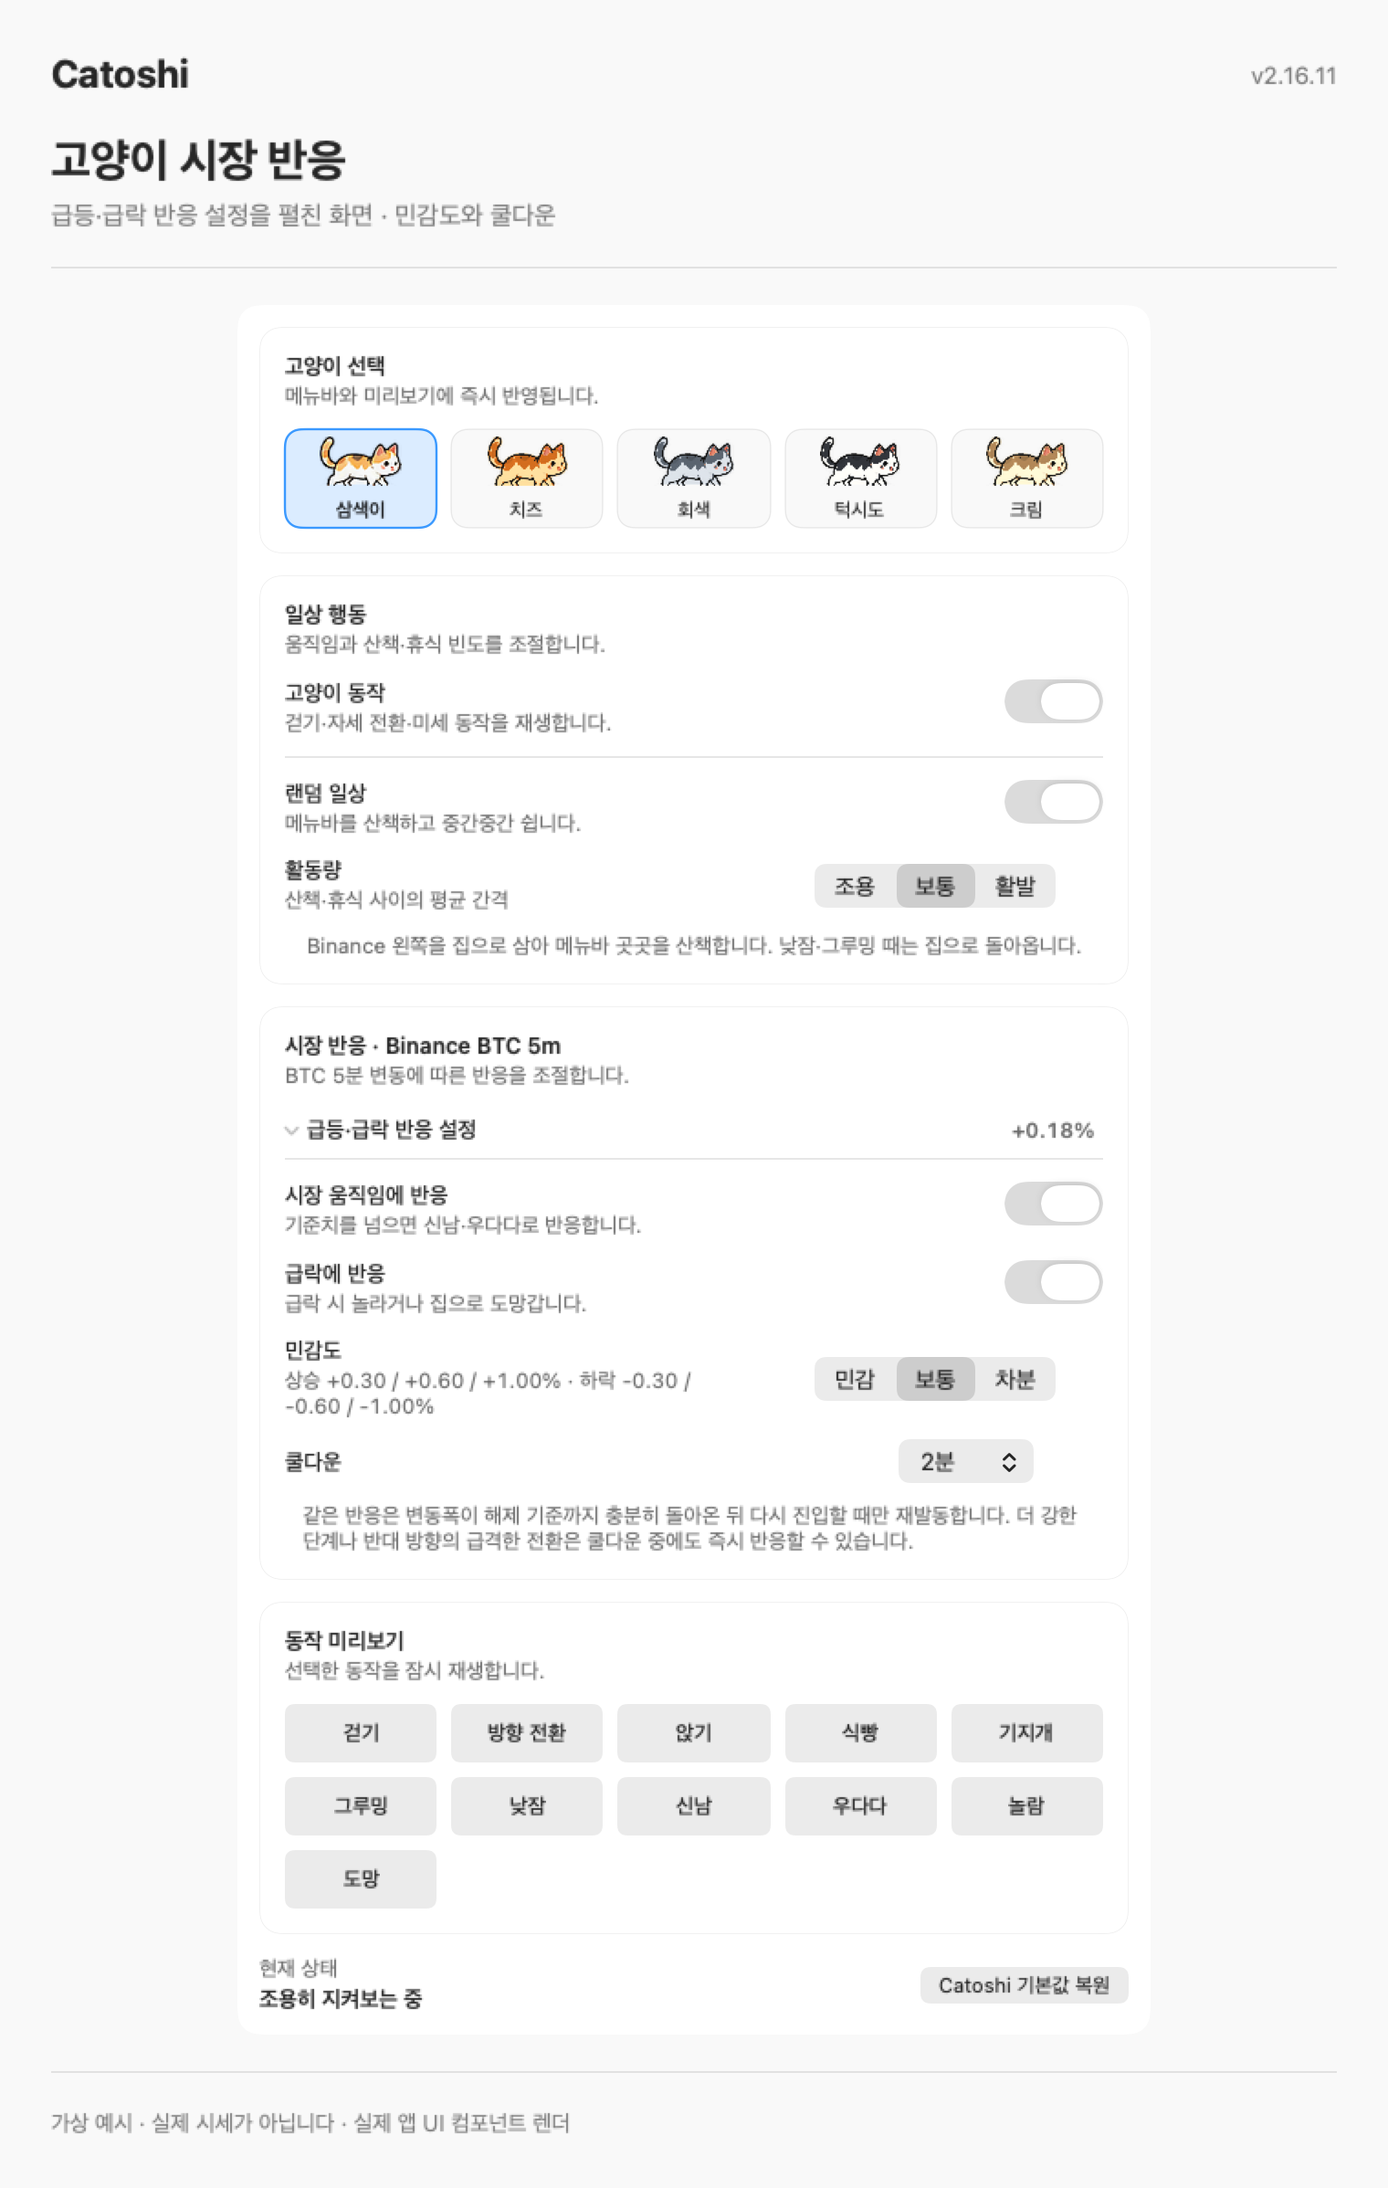
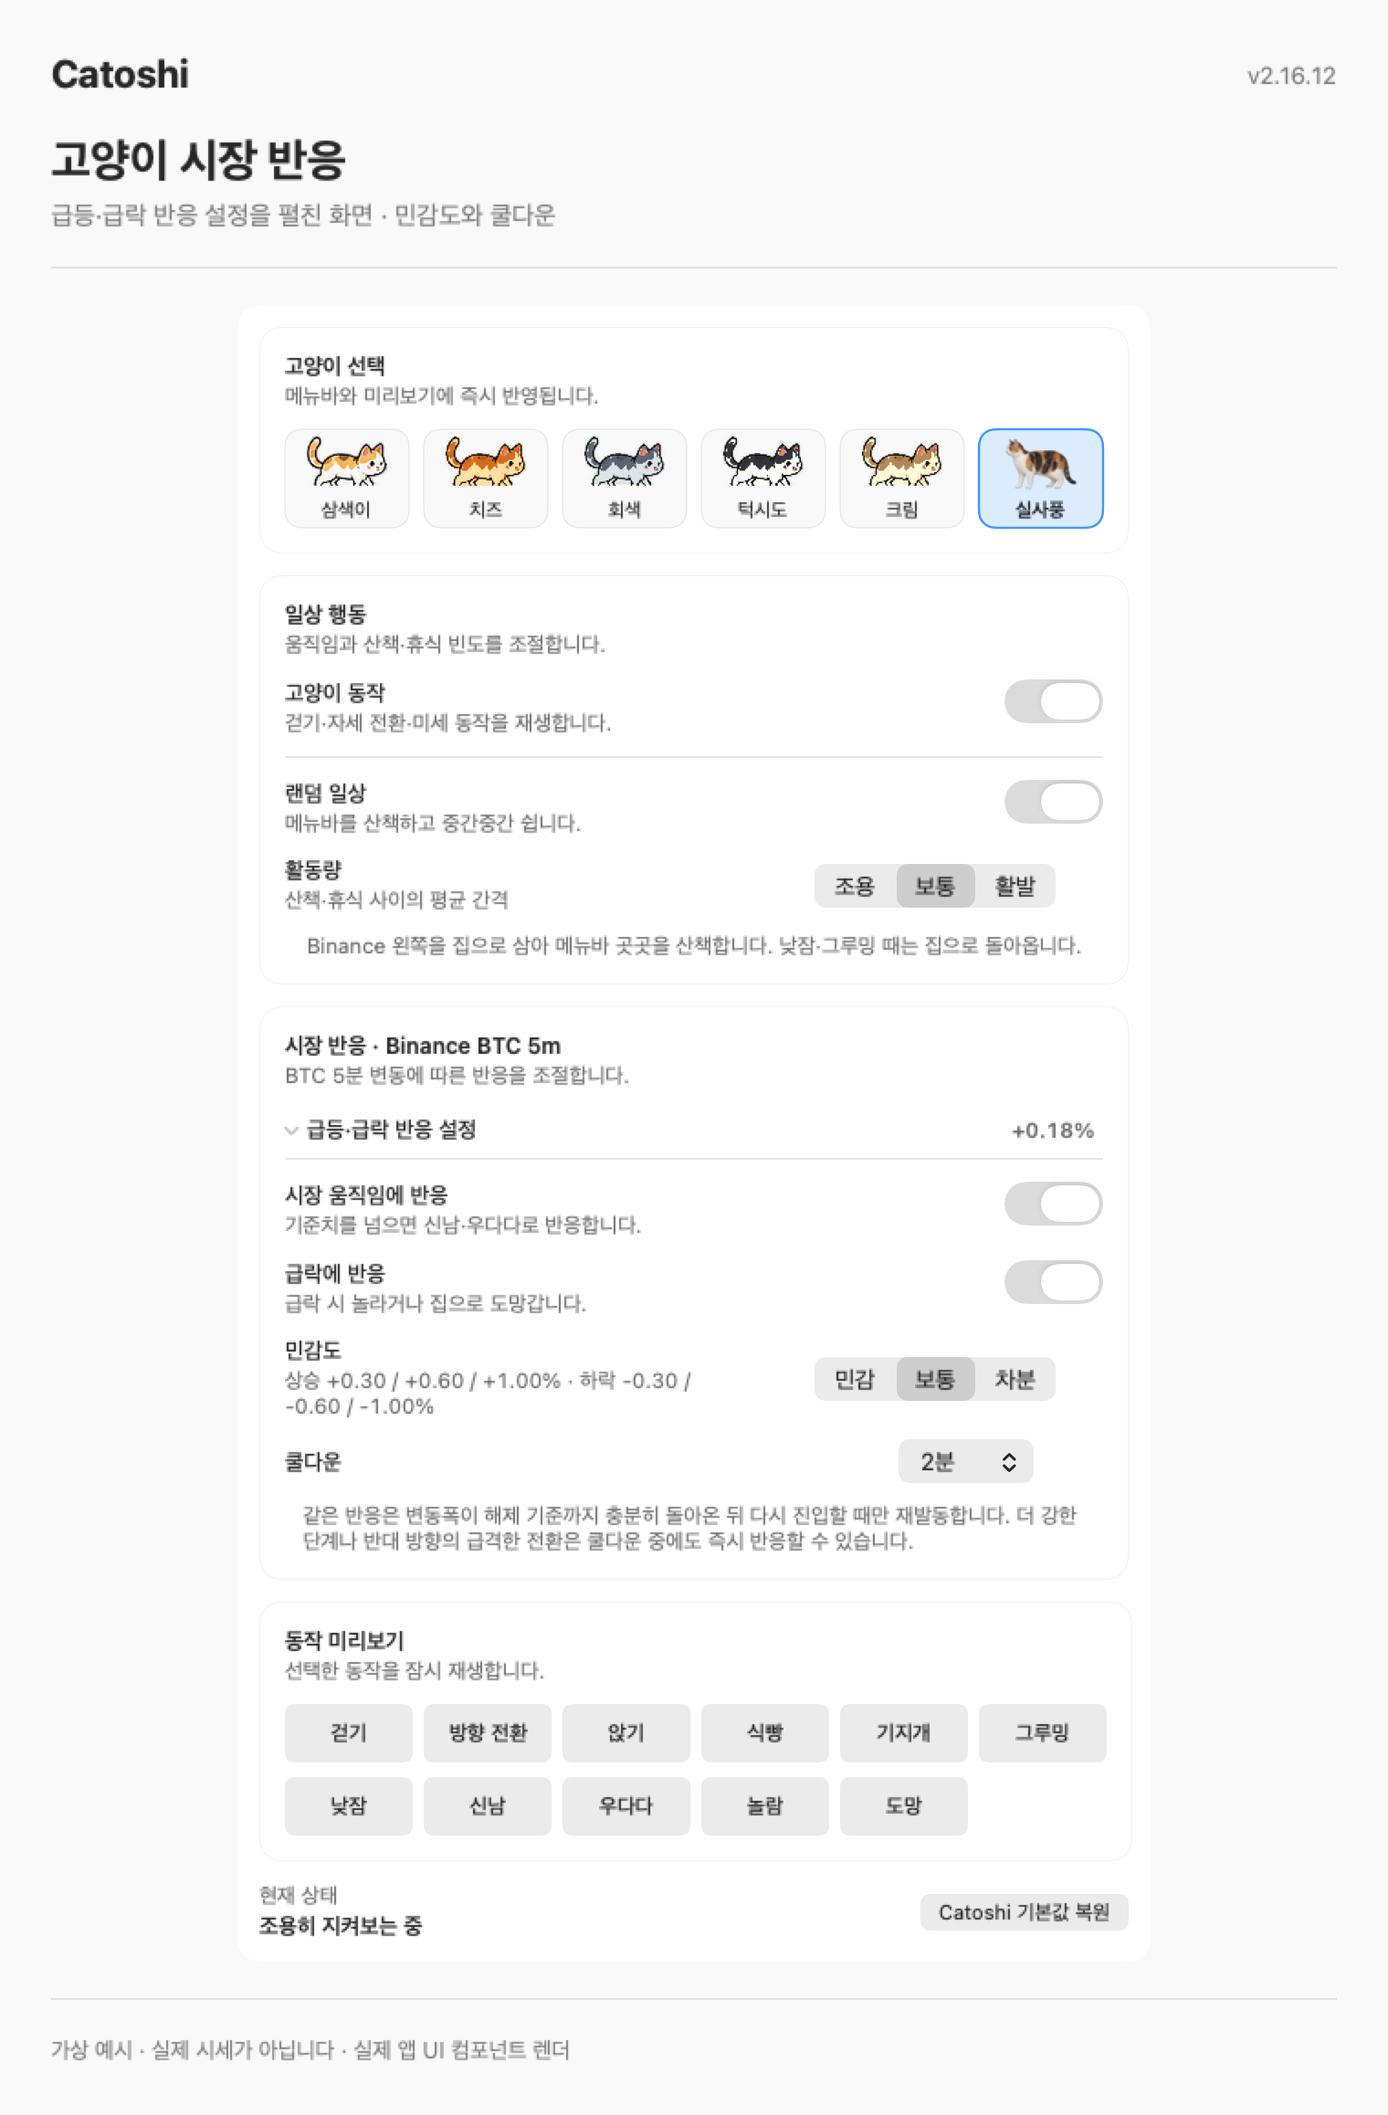
feat: add realistic calico cat option

diff --git a/scripts/build_realistic_atlas.swift b/scripts/build_realistic_atlas.swift
@@ -1,0 +1,182 @@
+import AppKit
+import CoreGraphics
+import Foundation
+
+// Rebuild the 2x menu-bar atlas from the transparent photographic pose sheets.
+// Run from the repository root: swift scripts/build_realistic_atlas.swift
+private struct Sheet {
+    let image: CGImage
+    let bitmap: NSBitmapImageRep
+    let rows: [Int]
+    let columns: [[Int]]
+
+    init(path: String, rows: [Int], columns: [[Int]]) throws {
+        let data = try Data(contentsOf: URL(fileURLWithPath: path))
+        guard let bitmap = NSBitmapImageRep(data: data), let image = bitmap.cgImage,
+              bitmap.pixelsWide == columns[0].last, bitmap.pixelsHigh == rows.last else {
+            throw NSError(domain: "CatoshiAtlas", code: 1, userInfo: [NSLocalizedDescriptionKey: "Invalid source sheet: \(path)"])
+        }
+        self.bitmap = bitmap
+        self.image = image
+        self.rows = rows
+        self.columns = columns
+    }
+
+    func pose(row: Int, column: Int) -> CGImage {
+        let x0 = columns[row][column]
+        let x1 = columns[row][column + 1]
+        let y0 = rows[row]
+        let y1 = rows[row + 1]
+        var minX = x1, minY = y1, maxX = x0, maxY = y0
+        for y in y0..<y1 {
+            for x in x0..<x1 where (bitmap.colorAt(x: x, y: y)?.alphaComponent ?? 0) > 0.5 {
+                minX = min(minX, x)
+                minY = min(minY, y)
+                maxX = max(maxX, x)
+                maxY = max(maxY, y)
+            }
+        }
+        precondition(maxX >= minX && maxY >= minY, "Empty pose \(row), \(column)")
+        let rect = CGRect(
+            x: max(x0, minX - 2),
+            y: max(y0, minY - 2),
+            width: min(x1, maxX + 3) - max(x0, minX - 2),
+            height: min(y1, maxY + 3) - max(y0, minY - 2)
+        )
+        guard let crop = image.cropping(to: rect) else { fatalError("Cannot crop pose \(row), \(column)") }
+        return crop
+    }
+}
+
+private struct Frame {
+    let name: String
+    let x: Int
+    let width: Int
+    let sheet: Int
+    let row: Int
+    let column: Int
+}
+
+let root = URL(fileURLWithPath: FileManager.default.currentDirectoryPath)
+let sources = root.appendingPathComponent("artwork/realistic")
+private let sheets = try [
+    Sheet(
+        path: sources.appendingPathComponent("calico-poses.png").path,
+        rows: [0, 364, 724, 1086],
+        columns: [[0, 387, 724, 1067, 1448], [0, 362, 724, 1086, 1448], [0, 367, 724, 1086, 1448]]
+    ),
+    Sheet(
+        path: sources.appendingPathComponent("calico-motion.png").path,
+        rows: [0, 362, 724, 1086],
+        columns: [[0, 377, 724, 1086, 1448], [0, 394, 757, 1086, 1448], [0, 394, 736, 1086, 1448]]
+    ),
+    Sheet(
+        path: sources.appendingPathComponent("calico-sitting.png").path,
+        rows: [0, 724],
+        columns: [[0, 543, 1086, 1629, 2172]]
+    )
+]
+
+// Names and pixel slots match CatoshiAtlasCatalog in CatoshiAssets.swift.
+private let frames: [Frame] = [
+    .init(name: "idle", x: 0, width: 59, sheet: 0, row: 0, column: 0),
+    .init(name: "sit", x: 61, width: 32, sheet: 0, row: 0, column: 1),
+    .init(name: "loaf", x: 95, width: 81, sheet: 0, row: 0, column: 2),
+    .init(name: "stretch", x: 178, width: 54, sheet: 0, row: 0, column: 3),
+    .init(name: "groom", x: 234, width: 36, sheet: 0, row: 1, column: 0),
+    .init(name: "sleep", x: 272, width: 77, sheet: 0, row: 1, column: 1),
+    .init(name: "happy", x: 351, width: 64, sheet: 0, row: 1, column: 2),
+    .init(name: "zoom1", x: 417, width: 82, sheet: 1, row: 0, column: 2),
+    .init(name: "zoom2", x: 501, width: 86, sheet: 1, row: 0, column: 3),
+    .init(name: "run1", x: 589, width: 65, sheet: 1, row: 0, column: 0),
+    .init(name: "run2", x: 656, width: 65, sheet: 1, row: 0, column: 1),
+    .init(name: "scared", x: 723, width: 61, sheet: 0, row: 1, column: 3),
+    .init(name: "flee", x: 786, width: 98, sheet: 1, row: 1, column: 0),
+    .init(name: "turn1", x: 886, width: 45, sheet: 1, row: 1, column: 1),
+    .init(name: "turn2", x: 933, width: 32, sheet: 1, row: 1, column: 2),
+    .init(name: "turn3", x: 967, width: 45, sheet: 1, row: 1, column: 3),
+    .init(name: "walk1", x: 1014, width: 59, sheet: 0, row: 2, column: 0),
+    .init(name: "walk2", x: 1075, width: 59, sheet: 0, row: 2, column: 1),
+    .init(name: "walk3", x: 1136, width: 59, sheet: 0, row: 2, column: 2),
+    .init(name: "walk4", x: 1197, width: 59, sheet: 0, row: 2, column: 3),
+    .init(name: "idleBlink", x: 1258, width: 59, sheet: 1, row: 2, column: 0),
+    .init(name: "idleEar", x: 1319, width: 59, sheet: 1, row: 2, column: 1),
+    .init(name: "idleTail", x: 1380, width: 59, sheet: 1, row: 2, column: 2),
+    .init(name: "sitBlink", x: 1441, width: 32, sheet: 2, row: 0, column: 0),
+    .init(name: "sitEar", x: 1475, width: 32, sheet: 2, row: 0, column: 1),
+    .init(name: "sitTail", x: 1509, width: 32, sheet: 2, row: 0, column: 2),
+    .init(name: "loafBlink", x: 1543, width: 81, sheet: 1, row: 2, column: 3)
+]
+
+let colorSpace = CGColorSpaceCreateDeviceRGB()
+guard let context = CGContext(
+    data: nil, width: 1624, height: 40, bitsPerComponent: 8, bytesPerRow: 0,
+    space: colorSpace, bitmapInfo: CGImageAlphaInfo.premultipliedLast.rawValue
+) else { fatalError("Cannot create atlas canvas") }
+context.interpolationQuality = .high
+context.setShouldAntialias(true)
+
+for frame in frames {
+    let crop = sheets[frame.sheet].pose(row: frame.row, column: frame.column)
+    let scale = min(CGFloat(frame.width - 2) / CGFloat(crop.width), 38 / CGFloat(crop.height))
+    let width = CGFloat(crop.width) * scale
+    let height = CGFloat(crop.height) * scale
+    context.draw(crop, in: CGRect(x: CGFloat(frame.x) + (CGFloat(frame.width) - width) / 2, y: 1, width: width, height: height))
+}
+
+guard let atlas = context.makeImage() else {
+    fatalError("Cannot encode atlas")
+}
+let cleaned = NSBitmapImageRep(cgImage: atlas)
+let transparent = NSColor(calibratedRed: 0, green: 0, blue: 0, alpha: 0)
+var removedPixels = 0
+for frame in frames {
+    let count = frame.width * 40
+    var solid = [Bool](repeating: false, count: count)
+    for y in 0..<40 {
+        for x in 0..<frame.width {
+            let absoluteX = frame.x + x
+            let alpha = cleaned.colorAt(x: absoluteX, y: y)?.alphaComponent ?? 0
+            if alpha >= 0.12 {
+                solid[y * frame.width + x] = true
+            } else if alpha > 0 {
+                cleaned.setColor(transparent, atX: absoluteX, y: y)
+                removedPixels += 1
+            }
+        }
+    }
+
+    var visited = [Bool](repeating: false, count: count)
+    for start in 0..<count where solid[start] && !visited[start] {
+        var component = [start]
+        visited[start] = true
+        var cursor = 0
+        while cursor < component.count {
+            let index = component[cursor]
+            let x = index % frame.width
+            let y = index / frame.width
+            for ny in max(0, y - 1)...min(39, y + 1) {
+                for nx in max(0, x - 1)...min(frame.width - 1, x + 1) {
+                    let next = ny * frame.width + nx
+                    if solid[next] && !visited[next] {
+                        visited[next] = true
+                        component.append(next)
+                    }
+                }
+            }
+            cursor += 1
+        }
+        if component.count < 6 {
+            for index in component {
+                cleaned.setColor(transparent, atX: frame.x + index % frame.width, y: index / frame.width)
+                removedPixels += 1
+            }
+        }
+    }
+}
+guard let png = cleaned.representation(using: .png, properties: [:]) else {
+    fatalError("Cannot encode atlas")
+}
+let output = root.appendingPathComponent("Resources/CatoshiAtlas_realistic.png")
+try png.write(to: output)
+print("Realistic Catoshi atlas: \(output.path); \(frames.count) frames; 1624x40; \(removedPixels) stray pixels removed")

diff --git a/Sources/Catoshi/UI/CatoshiSettingsViews.swift b/Sources/Catoshi/UI/CatoshiSettingsViews.swift
@@ -8,8 +8,8 @@ struct CatoshiSettingsView: View {
     @State private var marketReactionExpanded = false
 
     private let previewColumns = Array(
-        repeating: GridItem(.flexible(minimum: 72), spacing: 8),
-        count: 5
+        repeating: GridItem(.flexible(minimum: 70), spacing: 6),
+        count: 6
     )
 
     var body: some View {
@@ -262,7 +262,7 @@ private struct CatoshiStateSummary: View {
                 if let image = CatoshiAssets.sprite(named: motion.state.representativeFrameName, coat: coat) {
                     Image(nsImage: image)
                         .resizable()
-                        .interpolation(.none)
+                        .interpolation(coat == .realistic ? .high : .none)
                         .scaledToFit()
                         .frame(width: 32, height: 22)
                 }
@@ -294,7 +294,7 @@ struct CatoshiCoatButton: View {
                     if let image = CatoshiAssets.sprite(named: "idle", coat: coat) {
                         Image(nsImage: image)
                             .resizable()
-                            .interpolation(.none)
+                            .interpolation(coat == .realistic ? .high : .none)
                             .scaledToFit()
                     } else {
                         Text("🐈")

diff --git a/Sources/Catoshi/Sharing/CatoshiShareCards.swift b/Sources/Catoshi/Sharing/CatoshiShareCards.swift
@@ -593,7 +593,7 @@ enum CatoshiShareCardRenderer {
         canvas.text("Catoshi", top: 64, x: 72, width: 690, height: 72, font: .systemFont(ofSize: 54, weight: .bold), color: primary)
         canvas.text(section.title(language), top: 126, x: 74, width: 650, height: 48, font: .systemFont(ofSize: 29, weight: .semibold), color: secondary)
 
-        let coats = CatoshiCoat.allCases
+        let coats = CatoshiCoat.allCases.filter { $0 != .realistic }
         let frames = ["idle", "sit", "loaf", "stretch", "happy", "groom"]
         if let coat = coats.randomElement(),
            let frame = frames.randomElement(),

diff --git a/Sources/Catoshi/UI/DisplaySettingsView.swift b/Sources/Catoshi/UI/DisplaySettingsView.swift
@@ -174,7 +174,7 @@ private struct MenuBarDisplayPreview: View {
                         if let image = CatoshiAssets.sprite(named: "idle", coat: model.catoshiCoat) {
                             Image(nsImage: image)
                                 .resizable()
-                                .interpolation(.none)
+                                .interpolation(model.catoshiCoat == .realistic ? .high : .none)
                                 .scaledToFit()
                                 .frame(width: 60, height: 20)
                         }

diff --git a/Sources/Catoshi/Cat/CatoshiDomain.swift b/Sources/Catoshi/Cat/CatoshiDomain.swift
@@ -34,6 +34,7 @@ enum CatoshiCoat: String, CaseIterable, Identifiable {
     case gray
     case tuxedo
     case cream
+    case realistic
 
     var id: String { rawValue }
 
@@ -44,6 +45,7 @@ enum CatoshiCoat: String, CaseIterable, Identifiable {
         case .gray: return language.pick("회색", "Gray")
         case .tuxedo: return language.pick("턱시도", "Tuxedo")
         case .cream: return language.pick("크림", "Cream")
+        case .realistic: return language.pick("실사풍", "Realistic")
         }
     }
 

diff --git a/Sources/Catoshi/App/AppMetadata.swift b/Sources/Catoshi/App/AppMetadata.swift
@@ -1,7 +1,7 @@
 import Foundation
 
 enum AppMetadata {
-    static let fallbackVersion = "2.16.11"
+    static let fallbackVersion = "2.16.12"
 
     static var version: String {
         Bundle.main.object(forInfoDictionaryKey: "CFBundleShortVersionString") as? String ?? fallbackVersion

diff --git a/docs/images/README.md b/docs/images/README.md
@@ -1,6 +1,6 @@
 # README 시각 자료
 
-v2.16.11 기준 네이티브 UI 예시입니다. 시세·국내 거래소 화면의 거래소명은 실제 앱에서 공식 사이트를 여는 링크이며, 마우스를 올리면 글자가 더 굵고 커집니다. 숫자는 가상 예시이며 실제 시세가 아닙니다.
+v2.16.12 기준 네이티브 UI 예시입니다. 시세·국내 거래소 화면의 거래소명은 실제 앱에서 공식 사이트를 여는 링크이며, 마우스를 올리면 글자가 더 굵고 커집니다. 고양이 설정 화면은 새 실사풍 삼색 고양이를 선택한 예시입니다. 숫자는 가상 예시이며 실제 시세가 아닙니다.
 
 v2.16.5 · macOS 데스크톱 맥락의 메뉴바 구성 보완/검수 2026-09-08.
 
@@ -10,7 +10,7 @@ v2.16.5 · macOS 데스크톱 맥락의 메뉴바 구성 보완/검수 2026-09-0
 - `menu-bar.png`: 실제 `StatusBarContentView` 전체와 같은 `StatusBarSegment`의 항목별 확대. 미니 차트·24시간 변동·고양이·연결 상태 점을 표시합니다.
 - `price-panel.png`: 실제 `MarketPopover`의 시세 탭. 고양이 꾸미기·표시항목 설정 진입 버튼을 함께 보여 줍니다.
 - `display-settings.png`: 실제 500pt 표시항목 설정. 가격·변동률·미니 차트와 색상 설정. 미리보기는 앱과 같은 가로 스크롤 구성입니다.
-- `cat-settings.png`: 실제 500pt 고양이 설정. 털색 5종·일상 행동·활동량·동작 미리보기.
+- `cat-settings.png`: 실제 500pt 고양이 설정. 만화풍 5종·실사풍 1종·일상 행동·활동량·동작 미리보기.
 - `cat-reactions.png`: 같은 고양이 설정의 급등·급락 반응을 펼친 상태. 민감도·쿨다운까지 전체 높이를 담습니다.
 - `market.png`, `kr-exchanges.png`, `share-card.png`: 같은 버전의 네이티브 UI 컴포넌트와 가상 데이터로 만든 기존 문서 이미지.
 - `catoshi-app-icon.png`: 프로젝트 앱 아이콘.

diff --git a/artwork/realistic/README.md b/artwork/realistic/README.md
@@ -1,0 +1,11 @@
+# 실사풍 삼색 고양이 아트 소스
+
+`calico-poses.png`, `calico-motion.png`, `calico-sitting.png`는 Catoshi의 실사풍 고양이 포즈를 위해 OpenAI imagegen으로 생성한 투명 배경 원본입니다. 앞의 두 이미지는 4열 × 3행, 마지막 이미지는 한 줄에 4개 자세를 담습니다. 사진처럼 보이도록 생성한 이미지이며 실제 반려묘의 사진은 아닙니다.
+
+메뉴바용 1624 × 40px 아틀라스는 저장소 최상위 폴더에서 다음 명령으로 재생성합니다.
+
+```bash
+swift scripts/build_realistic_atlas.swift
+```
+
+포즈 프롬프트 요약: 투명 배경의 동일한 성체 삼색 단모 고양이, 실제 고양이 해부학과 자연스러운 털결·광원, 서로 겹치지 않는 전신 포즈. 첫 시트는 기본·앉기·식빵·기지개·그루밍·잠·기쁨·놀람·걷기 4단계, 둘째 시트는 달리기·우다다·도망·방향 전환·눈 깜박임, 셋째 시트는 앉아서 눈 깜박이기·귀 움직이기·꼬리 움직이기입니다. 글자·소품·배경·만화풍 표현은 사용하지 않았습니다.

diff --git a/docs/CHANGELOG.md b/docs/CHANGELOG.md
@@ -1,5 +1,11 @@
 # 변경 이력
 
+## v2.16.12 — 2026-10-07
+
+- 고양이 선택에 실사풍 삼색 고양이를 추가했습니다. 기존 만화풍 5종은 그대로 선택할 수 있습니다.
+- 실사풍 고양이도 메뉴바 산책·휴식·시장 반응에 맞춰 27개 포즈 프레임을 사용합니다. 포즈 원본과 아틀라스 재생성 도구를 `artwork/realistic/` 및 `scripts/`에 포함했습니다.
+- 설정 미리보기에서는 실사풍 이미지를 부드럽게 표시합니다. 공유 카드의 기존 만화풍 고양이 선택 방식은 유지합니다.
+
 ## v2.16.11 — 2026-10-07
 
 - 거래소명에 마우스를 올렸을 때 글자 굵기를 medium에서 bold로 높이고 크기를 2pt 키워 바로가기 표시를 분명하게 했습니다.
